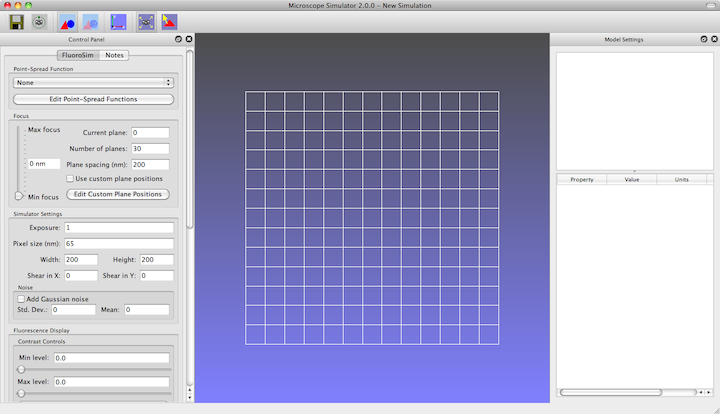
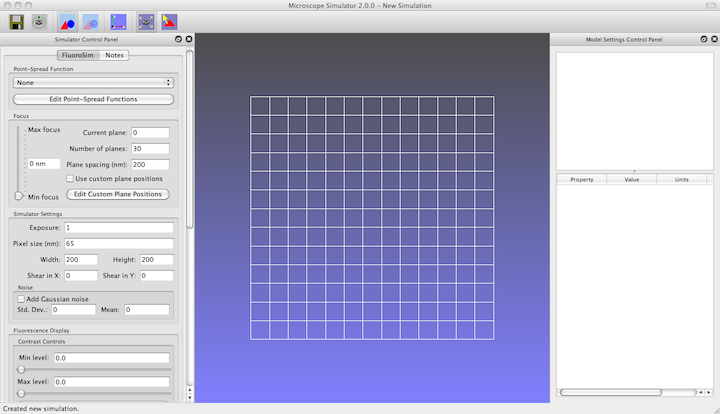
Added more text and images.

diff --git a/doc/MicroscopeSimulator.tex b/doc/MicroscopeSimulator.tex
@@ -1,4 +1,4 @@
-\documentclass[11pt]{article}
+\documentclass[11pt,titlepage]{article}
 \usepackage{geometry}                % See geometry.pdf to learn the layout options. There are lots.
 \geometry{letterpaper}                   % ... or a4paper or a5paper or ... 
 %\geometry{landscape}                % Activate for for rotated page geometry
@@ -10,12 +10,15 @@
 \usepackage{hyperref}
 \DeclareGraphicsRule{.tif}{png}{.png}{`convert #1 `dirname #1`/`basename #1 .tif`.png}
 
-\title{Microscope Simulator 2.0.0 User Manual}
+\title{Microscope Simulator 2.0.0 User's Guide}
 \author{Cory Quammen}
 %\date{}                                           % Activate to display a given date or no date
 
 \begin{document}
 \maketitle
+\tableofcontents
+
+\pagebreak
 
 \section{Introduction}
 
@@ -77,9 +80,10 @@ You can launch the Microscope Simulator program from the Start menu. If you chos
 If you installed the application in the Applications directory on your hard drive, double-click the program \emph{Microscope Simulator 2.0.0}.
 
 \subsubsection{Running the program for the first time}
-When you run the Microscope Simulator for the first time, it will run some tests to determine the capabilities of your graphics card. These tests may take a few minutes. Some graphics cards capabilities are required for the program to run while others are optional and enable certain simulation features. If the optional capabilities are not present, then those simulation features will not be enabled.
 
-Currently, the only optional graphics card feature enables the generation and addition of pseudo-random Gaussian noise to simulated fluorescence images. If that feature is not available on your graphics card, the control panel section for noise will be disabled.
+When you run the Microscope Simulator for the first time, it will run some tests to determine the capabilities of your graphics card. These tests may take a few minutes. Some graphics cards capabilities are required for the program to run while others are optional and enable certain simulation features. If the optional capabilities are not present, then those simulation features will not be enabled. Currently, the only optional graphics card feature enables the generation and addition of pseudo-random Gaussian noise to simulated fluorescence images. If that feature is not available on your graphics card, the control panel section for noise will be disabled.
+
+After the graphics card tests run, the Microscope Simulator will ask for you to choose a data directory where it can store data files. This version of the program stores one small file called \emph{PSFList.xml} which contains the list of point-spread functions defined within the program.
 
 \section{Getting to know the Microscope Simulator}
 
@@ -141,36 +145,36 @@ The \emph{Edit Menu} contains functions common to many programs.
 
 \subsubsection{Model Menu}
 
-The \emph{Model Menu} has options for adding and removing geometric models to the simulation. A model in this menu has parameters that controls its shape.
+The \emph{Model Menu} has options for adding and removing geometric models to the simulation. Every model in this menu has parameters that controls its shape. Models are placed at the center of the simulation domain.
 
 \begin{description}
 
   \item[Add Cylinder] \hfill \\
-  Adds a model of a cylinder to the scene. The ends of the model are capped with flat ends. The length and radius of the tube can be changed.
+  Adds a model of a cylinder to the simulation. The ends of the model are capped with flat ends. The length and radius of the tube can be changed.
   
   \item[Add Hollow Cylinder] \hfill \\
-  Adds a model of a cylinder with a hollow center to the scene. Like the cylinder model, the length and outer radius of the tube can be changed. A separate parameter controls the thickness of the tube walls where thickness is defined as the difference between the diameter of the outer and inner cylinder walls.
+  Adds a model of a cylinder with a hollow center to the simulation. Like the cylinder model, the length and outer radius of the tube can be changed. A separate parameter controls the thickness of the tube walls where thickness is defined as the difference between the diameter of the outer and inner cylinder walls.
 
   \item[Add Disk] \hfill \\
-  Adds a model of a planar disk to the scene. The disk is defined by its center and a radius.
+  Adds a model of a planar disk to the simulation. The disk is defined by its center and a radius.
 
   \item[Add Flexible Tube] \hfill \\
-  Adds a model of tube to the scene. The tube is defined by several control points and a radius. The number of control points can be changed, and each control point can be specified independently.
+  Adds a model of tube to the simulation. The tube is defined by several control points and a radius. The number of control points can be changed, and each control point can be specified independently.
   
   \item[Add Plane] \hfill \\
-  Adds a simple bounded planar model to the scene. The plane is defined by its width and height.
+  Adds a simple bounded planar model to the simulation. The plane is defined by its width and height.
   
   \item[Add Point Ring] \hfill \\
-  Adds a set of an arbitrary number of points to the scene. The points are restricted to lie in a circle of a given radius. These positions are treated as mathematical points in the simulator, so they are suitable for simulating very small objects such as nanometer-sized particles. No geometry is involved, but the points are represented by small spheres in the \emph{Model Object Window} so that they can be seen easily.
+  Adds a set of an arbitrary number of points to the simulation. The points are restricted to lie in a circle of a given radius. These positions are treated as mathematical points in the simulator, so they are suitable for simulating very small objects such as nanometer-sized particles. No geometry is involved, but the points are represented by small spheres in the \emph{Model Object Window} so that they can be seen easily.
   
   \item[Add Point Set] \hfill \\
-  Adds a set of an arbitrary number of points to the scene. This model is the same as the point ring, but the points are not restricted to lie in a circle. The location of each point can be set independently.
+  Adds a set of an arbitrary number of points to the simulation. This model is the same as the point ring, but the points are not restricted to lie in a circle. The location of each point can be set independently.
   
   \item[Add Sphere] \hfill \\
-  Adds a sphere model to the scene. The radius of the sphere can be changed.
+  Adds a sphere model to the simulation. The radius of the sphere can be changed.
 
   \item[Add Torus] \hfill \\
-  Adds a torus to the scene. The radius of the torus and the radius of the cross-section can be adjusted independently.
+  Adds a torus to the simulation. The radius of the torus and the radius of the cross-section can be adjusted independently.
 
 \end{description}
 
@@ -179,7 +183,7 @@ The \emph{Model Menu} has options for adding and removing geometric models to th
 \begin{description}
 
   \item[Import Image Data...] \hfill \\
-  Imports an image file. Currently only single TIFF (2D and 3D) and LSM (Zeiss) files can be imported. You will typically use this when importing an image file to which models should be fit using FluoroSim.
+  Imports an image file. Single TIFF (2D and 3D) and LSM (Zeiss) files can be imported. You will typically use this when importing an image file to which models should be fit using FluoroSim.
   
   \item[Import Geometry File...] \hfill \\
   Imports geometry from a file. Supported files include:
@@ -198,7 +202,7 @@ The \emph{Model Menu} has options for adding and removing geometric models to th
 \begin{description}
 
   \item[About] \hfill \\
-  Shows a window with information about the Microscope Simulator program.
+  Shows a window with information about the Microscope Simulator program. \textbf{Macintosh users:} The \emph{About Microscope Simulator} menu item appears under the \emph{Microscope Simulator} menu instead of the \emph{Window} menu. 
 
   \item[Show Simulator Control Panel] \hfill \\
   Shows/hides the \emph{Simulator Control Panel}. If you close the \emph{Simulator Control Panel}, you can show it again with this menu item.
@@ -213,14 +217,217 @@ The \emph{Model Menu} has options for adding and removing geometric models to th
   Displays a window listing any errors in the program.
   
   \item[Preferences] \hfill \\
-  Displays the \emph{Preferences} window.
+  Displays the \emph{Preferences Window} (see Section \ref{sec:PreferencesWindow}).
 
 \end{description}
 
+\begin{figure}[htbp] %  figure placement: here, top, bottom, or page
+   \centering
+   \includegraphics[width=3in]{images/SimulatorControlPanel} 
+   \caption{The \emph{Simulator Control Panel} with the \emph{FluoroSim Tab} selected.}
+   \label{fig:SimulatorControlPanel}
+\end{figure}
+
+\subsection{Simulator Control Panel}
+
+This control panel has two tabs. The \emph{FluoroSim Tab} contains controls for fluorescence simulation. More details on these controls are available in the FluoroSim section of this manual (Section \ref{sec:FluoroSim}). The \emph{Notes Tab} contains a text editor where notes about the current simulation may be written. These notes will be saved in the simulation file and will be loaded when the simulation file is loaded.
+
 \subsection{Model Display Panel}
 
-\section{FluoroSim}
+The \emph{Model Display Panel} is where the 3D specimen models in the simulation are displayed. Output from the Microscope Simulator modules can also be displayed in this window. Such output include fluorophores generated by FluoroSim and fluorescence images superimposed in among the specimen models.
 
-To install the program in your Applications directory on your computer's hard drive, drag the Microscope Simulator 2.0.0 application to either the Applications alias in the Finder window that just appeared or drag it directly to your Applications directory.
+\subsection{Visualization Buttons}
+
+\begin{figure}[htbp] %  figure placement: here, top, bottom, or page
+   \centering
+   \includegraphics[width=4in]{images/VisualizationIcons} 
+   \caption{The visualization icons.}
+   \label{fig:VisualizationIcons}
+\end{figure}
+
+A row of visualization icons provide various controls related to what is shown in the \emph{Model Display Panel} (see Figure \ref{fig:VisualizationIcons}). The functions represented by the icons are described from left to right below:
+
+\subsubsection{Utility Buttons}
+
+\begin{description}
+
+  \item[Save Image] \hfill \\
+  Save the image currently displayed in the \emph{Model Object Panel}.
+  
+  \item[Reset Camera] \hfill \\
+  Reset the scene to the default view.
+  
+\end{description}
+
+\subsubsection{Visualization Buttons}
+
+Just one of the following visualization modes can be enabled at a time:
+
+\begin{description}
+
+  \item[View Model Only] \hfill \\
+  Displays specimen models only.
+
+  \item[View Fluorophore Sampling] \hfill \\
+  Displays fluorophores from models in the scene as small spheres.
+
+%  \item[View Models with AFM Scan] \hfill \\
+%  Displays both the specimen models and the simulated AFM surface scan.
+
+  %\item[View AFM Scan Only] \hfill \\
+  %Displays the simulated AFM surface scan only.
+  
+  %\item[View Models with Fluorescence Comparison] \hfill \\
+  %Displays comparison of experimental and simulated fluorescence image stacks with the models visible. See the section on processing simulated stacks for more details on the comparison visualization.
+  
+  %\item[View Fluorescence Comparison Only] \hfill \\
+  %Display comparison of experimental and simulated fluorescence image stacks without the models visible. See the section on processing simulated stacks for more details on the comparison visualization.
+  
+\end{description}
+  
+\subsubsection{References Axes Button}
+
+Enables/disables display of coordinate axes in the \emph{Model View Panel}. The location of the coordinate axes can be moved to an arbitrary location in the \emph{Model View Panel} display by clicking on the axes and dragging them.
+  
+\subsubsection{Interaction Modes Button}
+  
+One of the following interaction modes can be enabled at a time.
+
+\begin{description}
+
+  \item[Move Camera] \hfill \\
+  Enables manipulation of the camera in the Model View Panel via mouse manipulation. You can change the view of the specimen models by rotating, translating, and zooming in on the scene. Clicking and dragging while holding different mouse buttons causes different camera motions:
+
+\begin{itemize}
+\item \textbf{Left mouse button} - rotates the scene
+\item \textbf{Middle mouse button} - translates the scene
+\item \textbf{Right mouse button} - zooms in on the scene
+\end{itemize}
+
+  \item[Move Objects] \hfill \\
+  Enables manipulation of individual specimen model objects via mouse manipulation. Clicking on the desired model object and dragging while holding one of the mouse buttons produces the following transformations:
+  
+\begin{itemize}
+\item \textbf{Left mouse button} - rotates the selected model object
+\item \textbf{Middle mouse button} - translates the selected model object
+\item \textbf{Right mouse button} - in most cases, scales the size of the model object
+\end{itemize}
+
+\end{description}
+
+\subsection{Model Object List}
+
+The model object list appears in the upper right of the program window. All model objects in the simulation are listed here. When you click on a model object in the list, properties for that model object appear in the Model Object Properties Panel. Right-clicking on a model object brings up a context menu that provides several options:
+
+\begin{description}
+
+  \item[Focus on Object] \hfill \\
+  Changes the camera view to center on this model object and zoom in on it so that it nearly fills the Model Object View Panel.
+  
+  \item[Export Geometry] \hfill \\
+  Exports the model object geometry as a VTK Legacy file (*.vtk), VTK Poly Data XML file (*.vtp), PLY file (*.ply), or BYU file (*.byu).
+  
+  \item[Delete Model Object] \hfill \\
+  Deletes this model object.
+
+\end{description}
+
+\begin{figure}[htbp] %  figure placement: here, top, bottom, or page
+   \centering
+   \includegraphics[width=3in]{images/ModelObjectProperties} 
+   \caption{The \emph{Model Settings Control Panel}. The \emph{Model Object List} (top section) shows all the specimen models in the simulation. The \emph{Model Object Properties List} (bottom section) contains an editable list of the selected model object's properties.}
+   \label{fig:example}
+\end{figure}
+
+\subsection{Model Object Properties Panel}
+
+\subsubsection{The Properties Table}
+
+The \emph{Model Object Properties Panel} has four columns showing the properties of the model object selected in the \emph{Model Object List}. Each property is displayed as a row in the table. Most model object properties can be changed in this panel, but some are there to display information about the model object (the size in voxels of an \emph{Image Model Object}, for example).
+
+The \emph{Property} column lists the name of the property. Property names cannot be edited. The \emph{Value} column lists the value of the property. To change the value, click on the table cell. Clicking on a property with a checkbox will toggle the checkbox. Clicking once on a property with a numerical value will select the cell while clicking it twice will highlight the value; in either case, typing a numerical value and pressing the return key will change the property value. The \emph{Units} column shows the units of the parameter and cannot be edited. Unitless properties are denoted with a dash (``-''). The \emph{Optimize} column contains checkboxes to designate which property should be optimized using FluoroSim's model fitting routines (see Section \ref{sec:ModelFittingToFluorescenceImages}).
+
+\subsubsection{Common Model Object Properties}
+
+A few properties common to almost all model objects are listed here:
+
+\begin{description}
+
+  \item[Name] \hfill \\
+  A name for the model object.
+  
+  \item[Visible] \hfill \\
+  Controls whether the model object is visible in the scene or not.
+
+  \item[Scannable] \hfill \\
+  Controls whether the model object is included when calculating a simulated AFM scan.
+
+  \item[Position X] \hfill \\
+   X-component of the model object position.
+
+  \item[Position Y] \hfill \\
+  Y-component of the model object position.
+
+  \item[Position Z] \hfill \\
+  Z-component of the model object position.
+  
+  \item[Rotation Angle] \hfill \\
+  Angle of rotation in rotation about the vector defined by the next three parameters.
+  
+  \item[Rotation Vector X] \hfill \\
+  X-component of the vector about which the model is rotated.
+  
+  \item[Rotation Vector Y] \hfill \\
+  Y-component of the vector about which the model is rotated.
+  
+  \item[Rotation Vector Z] \hfill \\
+  Z-component of the vector about which the model is rotated.
+  
+  \item[Surface Fluorophore Model] \hfill \\
+  A fluorophore model that samples the surface of the specimen model geometry (see Section \ref{sec:FluorophoreModels}).
+  
+  \item[Volume Fluorophore Model] \hfill \\
+  A fluorophore model that samples the volume defined by boundaries of the specimen model geometry (see Section \ref{sec:FluorophoreModels}).
+
+\end{description}
+
+\subsection{Preferences Window}
+\label{sec:PreferencesWindow}
+
+\begin{figure}[htbp] %  figure placement: here, top, bottom, or page
+   \centering
+   \includegraphics[width=4in]{images/PreferencesWindow} 
+   \caption{The Preferences window.}
+   \label{fig:PreferencesWindow}
+\end{figure}
+
+The \emph{Preferences Window} (Figure \ref{fig:PreferencesWindow}) lets you specify a directory where the Microscope Simulator can store data files. This directory was set the first time the program ran, but it can be changed by clicking on the button to the right of the directory.
+
+The required and optional graphics card capabilities are also listed in the \emph{Preferences Window}. If you install the Microscope Simulator and later upgrade your graphics card, you can check the capabilities of the new card by clicking the \emph{Check OpenGL Settings Again} button. This will also enable the advanced capabilities of the Microscope Simulatorthe when you restart the program.
+
+\section{FluoroSim}
+\label{sec:FluoroSim}
+
+\subsection{Model Fitting to Fluorescence Images}
+\label{sec:ModelFittingToFluorescenceImages}
+
+
+%\pagebreak
+
+\section{Version History}
+
+\subsection{Version 2.0.0}
+
+\noindent
+Changes from previous release:
+\begin{itemize}
+\item Complete rewrite of the Microscope Simulator program.
+\end{itemize}
+
+\noindent
+Known issues:
+\begin{itemize}
+\item Item
+\end{itemize}
 
 \end{document}  
